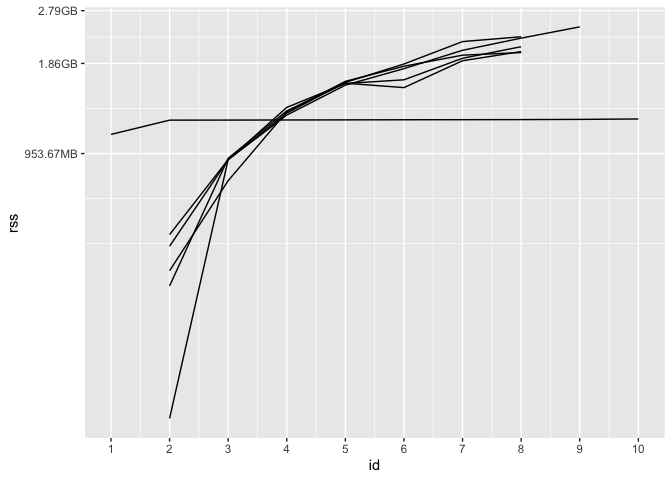
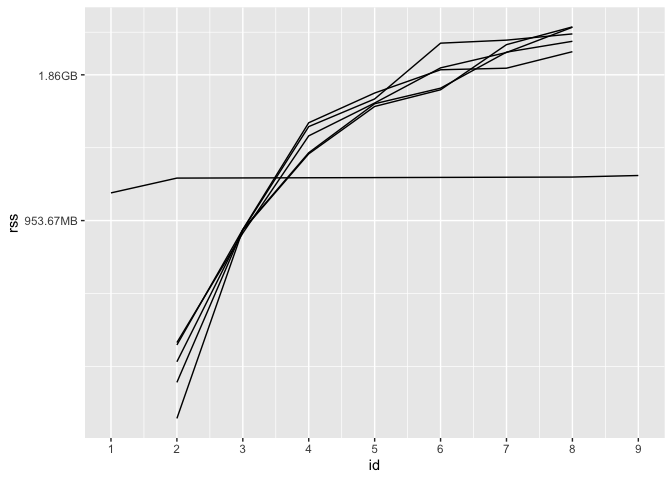
urge caution in interpreting `rss`

diff --git a/README.md b/README.md
@@ -108,20 +108,20 @@ The output is a tibble:
 
 ``` r
 res_mem
-#> # A tibble: 66 × 6
+#> # A tibble: 62 × 6
 #>       id   pid  ppid name                 rss       vms
 #>    <dbl> <int> <int> <chr>          <bch:byt> <bch:byt>
-#>  1     1 27434 23379 rsession-arm64   86.19MB     392GB
-#>  2     1 33517 23379 rsession-arm64     749MB     393GB
-#>  3     1 34764 33517 R                 1.08GB     393GB
-#>  4     2 27434 23379 rsession-arm64   86.19MB     392GB
-#>  5     2 33517 23379 rsession-arm64     749MB     393GB
-#>  6     2 34764 33517 R                  1.2GB     393GB
-#>  7     2 34781 34764 R               511.36MB     393GB
-#>  8     2 34782 34764 R               467.77MB     393GB
-#>  9     2 34783 34764 R               387.41MB     393GB
-#> 10     2 34784 34764 R               344.58MB     393GB
-#> # ℹ 56 more rows
+#>  1     1 27434 23379 rsession-arm64      88MB     392GB
+#>  2     1 35014 23379 rsession-arm64  353.47MB     393GB
+#>  3     1 35413 35014 R                 1.06GB     393GB
+#>  4     2 27434 23379 rsession-arm64      88MB     392GB
+#>  5     2 35014 23379 rsession-arm64  353.47MB     393GB
+#>  6     2 35413 35014 R                 1.14GB     393GB
+#>  7     2 35430 35413 R               533.92MB     393GB
+#>  8     2 35431 35413 R               527.83MB     393GB
+#>  9     2 35432 35413 R               487.28MB     393GB
+#> 10     2 35433 35413 R                441.8MB     393GB
+#> # ℹ 52 more rows
 ```
 
 In this tibble, `id` defines a specific time point at which process
@@ -153,6 +153,10 @@ each of those workers returns their results to the parent process, and
 their `rss` is once again `NA`. The parent process wraps up its
 computations before completing evaluation of the expression, at which
 point `syrup()` returns.
+
+Note that memory is weird; in the above plot, the total memory allotted
+to the parent session and its five workers at each ID is not simply the
+sum of those `rss` values, as memory is shared among them.
 
 ## Scope
 
